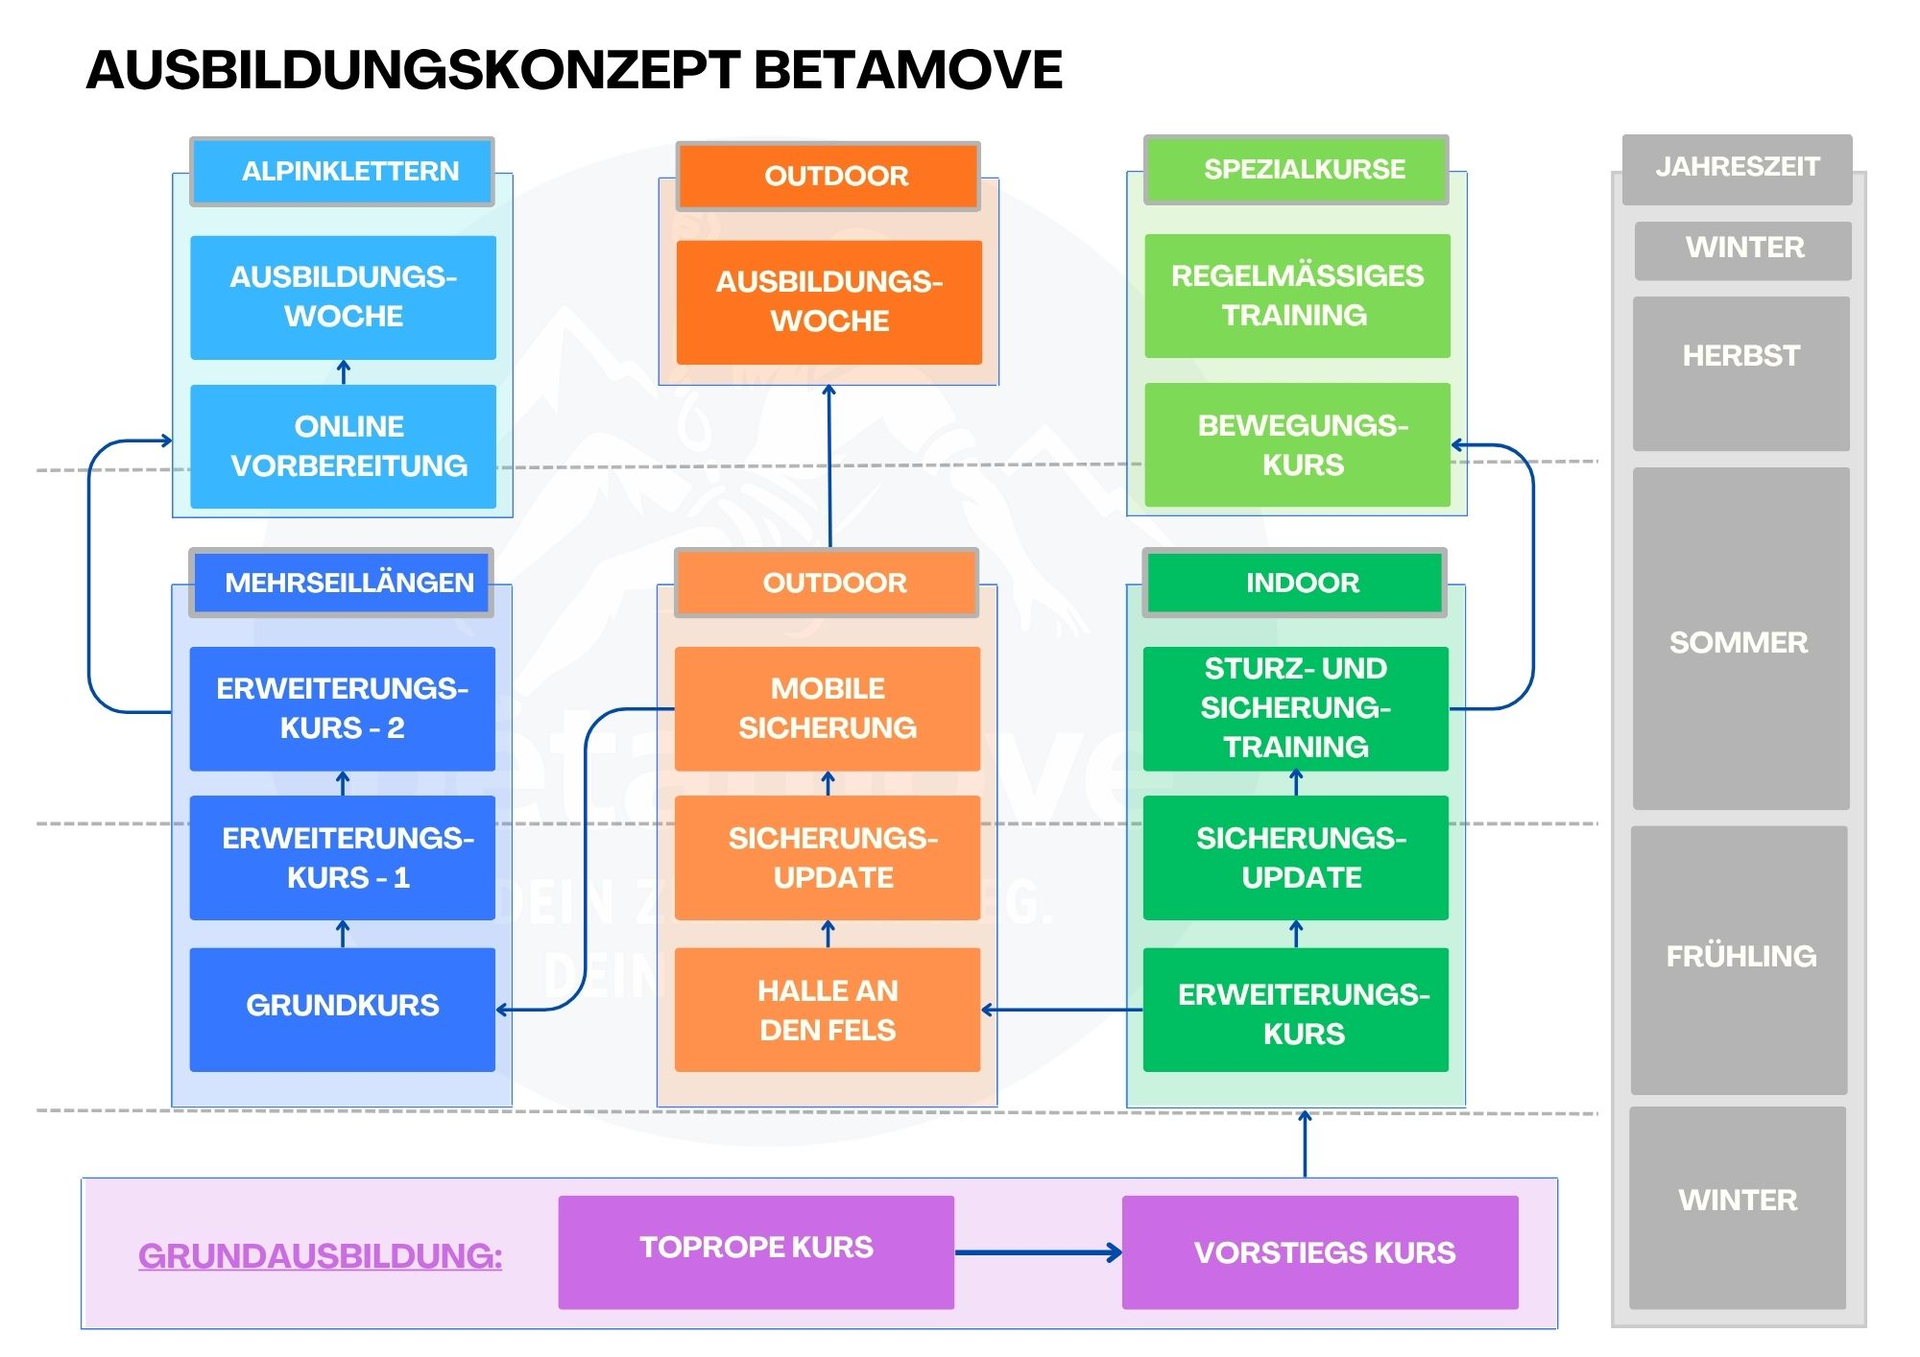
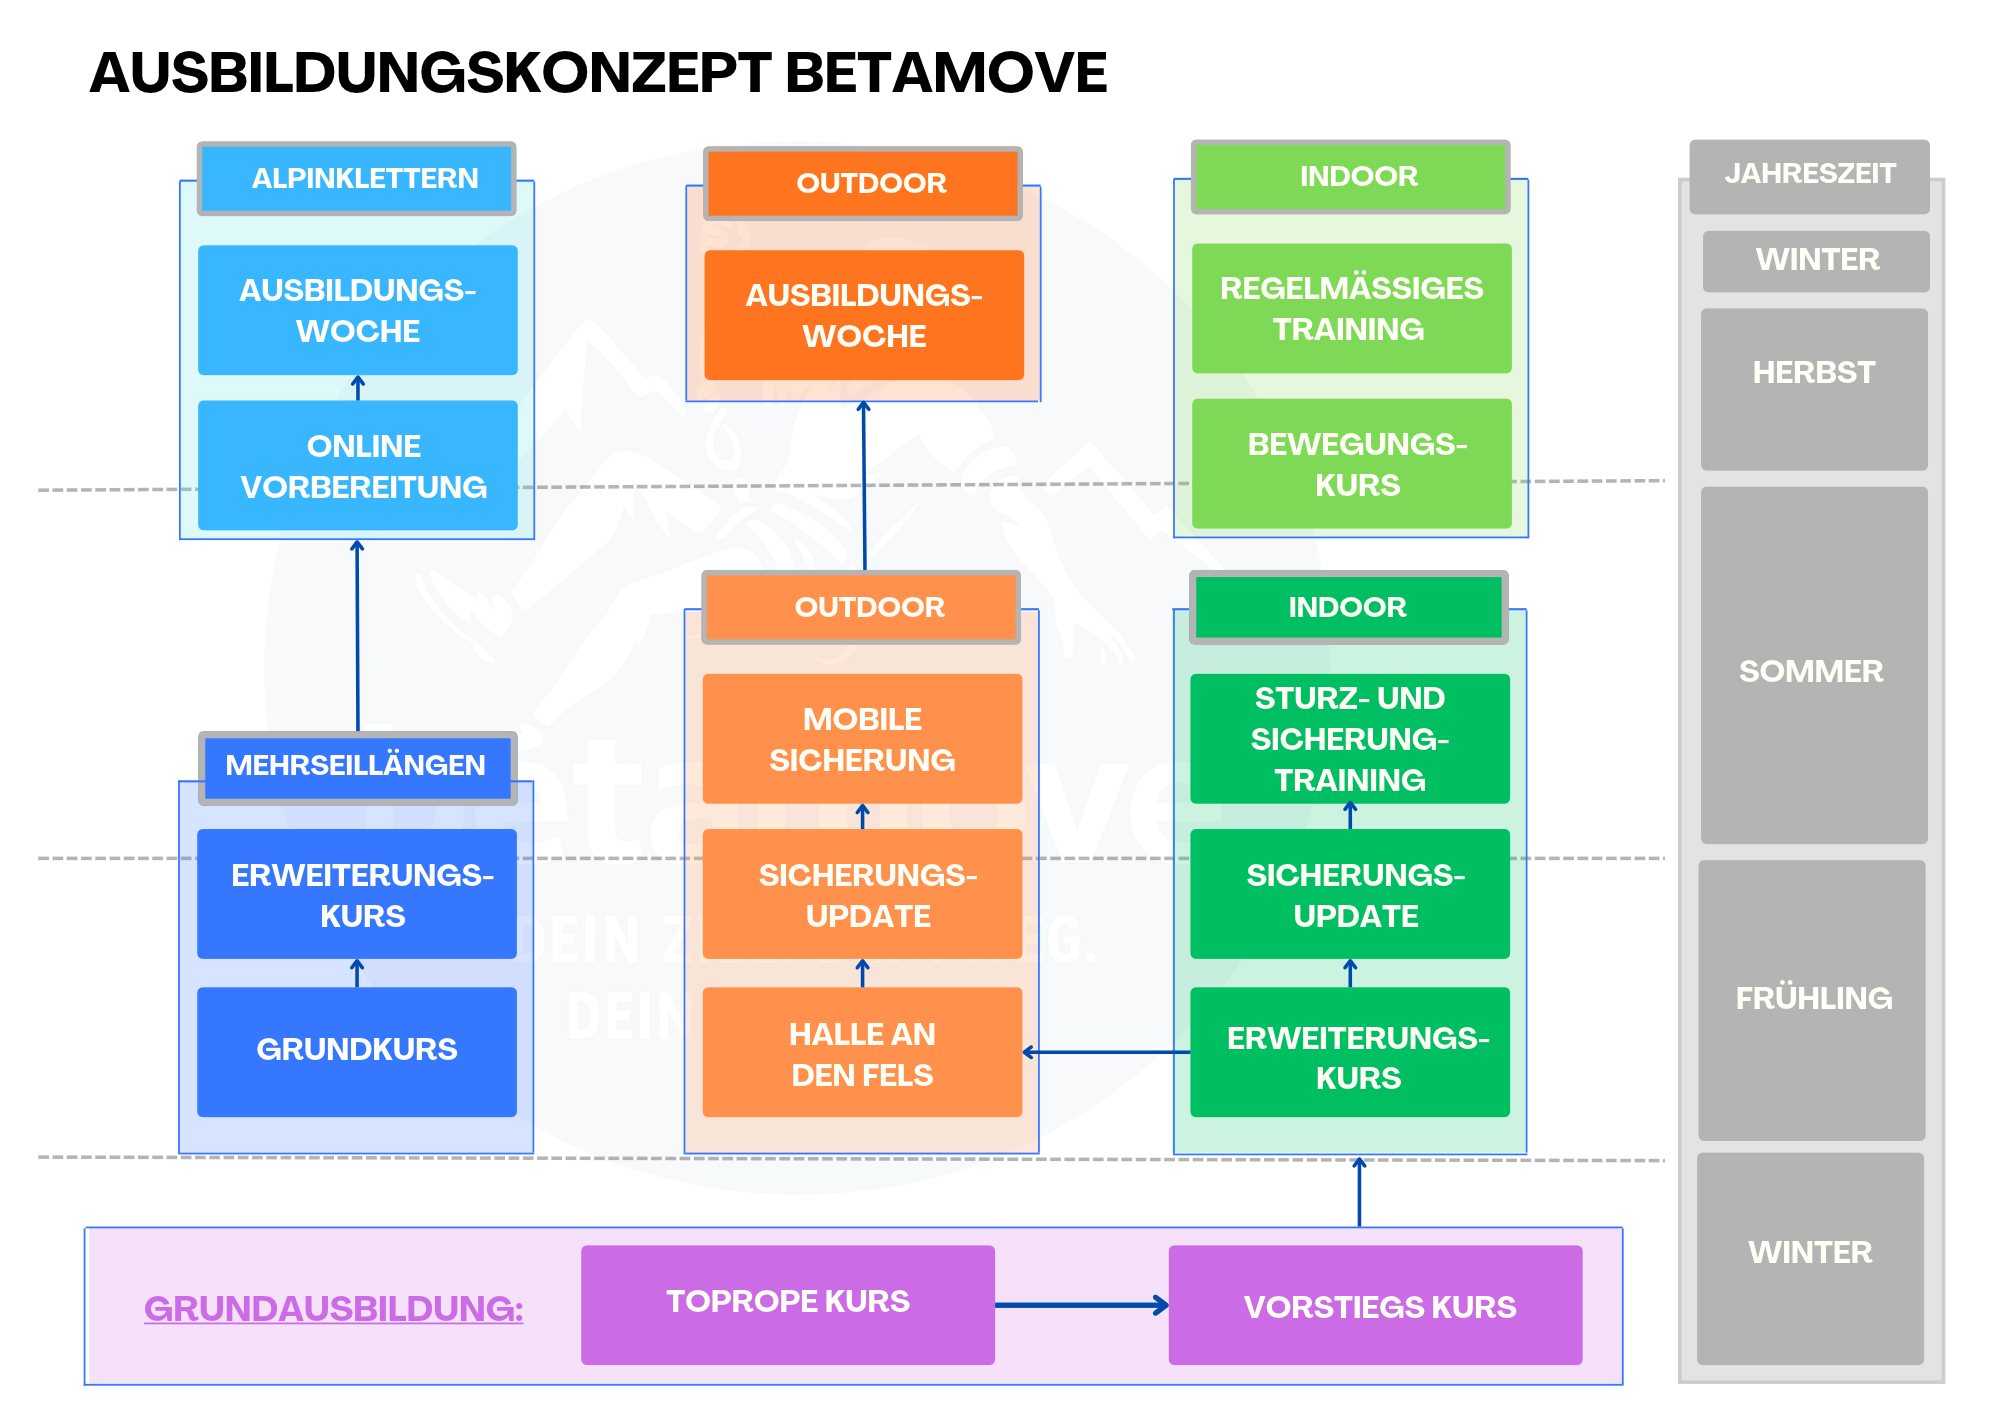
Ausbildungskonzept-Grafik aktualisiert
Neue Version des Diagramms (drei parallele Wege Indoor/Outdoor/
Mehrseillängen auf gemeinsamer Grundausbildung, mit Jahreszeiten-Spalte)
ersetzt die bisherige Grafik. Alt-Text auf ausbildung.html entsprechend
angepasst.

Claude-Session: https://claude.ai/code/session_01UFwejAVdxVnsmqzF4Lo3dP

diff --git a/ausbildung.html b/ausbildung.html
@@ -57,7 +57,7 @@
       <h2 style="margin:0 0 8px;font-size:36px">Das Ausbildungskonzept im Überblick</h2>
       <p style="max-width:60ch;font-size:17px;opacity:0.8;margin-bottom:30px">Hier findest du den gesamten Aufbau Die Kurs sind auch einzeln ohne die vorherigen Betamove-Kurs buchbar, jedoch empfehlen wir, das Ausbildungskonzept einzuhalten. Du wirst merken, dass es dich nachhaltig weiterbringen wird.</p>
       <figure style="margin:0;background:#ffffff;border:1px solid var(--color-divider);border-radius:calc(var(--radius-lg) * 1.15);padding:28px 30px;box-shadow:var(--shadow-sm)">
-        <img src="assets-min/ausbildungskonzept.png" alt="Ausbildungskonzept BETAMOVE: Grundausbildung mit Toprope- und Vorstiegskurs, Erweiterungskurse mit Mehrseillängen sowie Halle an den Fels und Sicherungs-Update, darauf aufbauend die weiteren Ausbildungsstufen." style="display:block;width:100%;height:auto;background:var(--color-surface);min-height:220px">
+        <img src="assets-min/ausbildungskonzept.png" alt="Ausbildungskonzept BETAMOVE: Grundausbildung mit Toprope- und Vorstiegskurs als Basis, darauf aufbauend drei parallele Wege — Indoor (Sicherungs-Update, Sturz- und Sicherungstraining, Erweiterungskurs, dann regelmäßiges Training und Bewegungskurs), Outdoor (Halle an den Fels, Sicherungs-Update, Mobile Sicherung, dann Ausbildungswoche) und Mehrseillängen/Alpinklettern (Grundkurs, Erweiterungskurs, Online-Vorbereitung, dann Ausbildungswoche) — zeitlich den Jahreszeiten Winter bis Winter zugeordnet." style="display:block;width:100%;height:auto;background:var(--color-surface);min-height:220px">
       </figure>
     </section>
 
